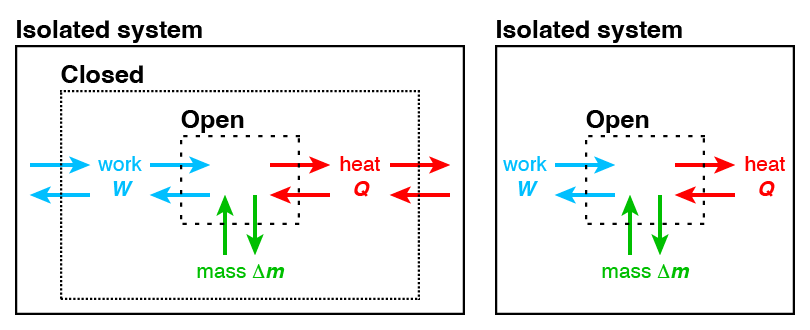
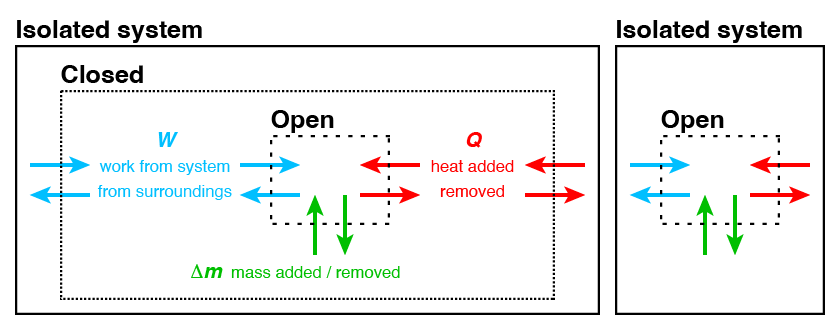
more updates

diff --git a/text/entropy03_2nd_law.md b/text/entropy03_2nd_law.md
@@ -1,0 +1,226 @@
+---
+title: The Second Law of Thermodynamics
+numbering:
+  enumerator: 1.3.%s
+---
+
+
+## Heating an Object
+
+Heating as gas means increasing the random motion of its molecules. This heating process involves two key components:
+- Increasing the average velocity of the gas molecules, i.e. increasing their kinetic energy $\langle E_k \rangle$.
+- Increasing the randomness or disorder of the gas molecules.
+
+These two processes do not always occur together. For example, consider the boiling process where liquid water is converted to water vapor. The key difference between the liquid and gas phase of $\rm{H}_2\rm{O}$ is that water vapor is in some sense more "random" than liquid water. At the precise point of boiling, the water temperature does not change, but instead only the randomness or disorder changes. 
+
+What do we mean by increasing disorder? Consider the simple example shown in [](#molecules_4_2_1), where indistinguishable atoms are placed on a 4x4 lattice grid, and each lattice site is identical. We consider 3 cases:
+1. The atoms are clustered together into 1 group of 4.
+2. The atoms form 2 clusters, each containing 2 atoms. For simplicity we will assume the clusters cannot be rotated.
+3. The atoms are dispersed into 4 separate groups of 1.
+
+
+```{figure} ../images/entropy/molecules_4_2_1.png
+:label: molecules_4_2_1
+:align: center
+:width: 600px
+Molecules on a grid, in clusters of 1, 2, and 4 atoms, with clusters allowed to occupy the same grid points. The different arrangements have different amounts of disorder (entropy).
+```
+
+The disorder of any system is related to the number of unique ways to arrange its contents. A larger number of ways to arrange the components of the system means the disorder is increased. For our system of 4 atoms, we can count the number of unique arrangements for the 3 cases we considered:
+{style=lower-alpha}
+1. 4 atom clusters - 9 ways.
+2. 2 atom clusters - $(12)(12) = 144$ ways.
+3. 1 atom clusters - $(16)(16)(16)(16) = 16^4 = 65536$ ways.
+
+For simplicity, we have overcounted the number of unique arrangements by allowing the atoms to occupy the same lattice sites. We are also ignoring the cases in (2) where the atoms are arranged into clusters of 4 atoms, and the cases in (3) where the atoms are arranged into clusters of 2 or 4 atoms.
+
+Next, we suppose that the average kinetic energy $\langle E_k \rangle$ for all molecules in these 3 cases are equal. which of these transformations will require more energy?
+- $(1) \rightarrow (2)$
+- $(1) \rightarrow (3)$
+
+Recall that heating is the transfer of energy into a system that increases its temperature, disorder (randomness), or both, depending on the process. In this case, the kinetic energy $\langle E_k \rangle$ for all 3 cases are the same, and therefore the degree of heating depends on the change in disorder. Because the transformation $(1) \rightarrow (3)$ produces a much greater increase in disorder than $(1) \rightarrow (2)$, the conversion $(1) \rightarrow (3)$ requires more heating.
+
+From the previous concepts, we can now define heating as the produce of the average kinetic energy $\langle E_k \rangle$ and the change in disorder:
+```{math}
+:label: eq:heating_temp_entropy_init
+\rm{heating} = \langle E_k \rangle \, (\rm{change \,\, in \,\, disorder})
+```
+
+If we consider thermodynamic states, heat input moving from one state to another is $\Delta Q$, average kinetic energy $\langle E_k \rangle$ is equivalent to temperature $T$, and the change in disorder is represented by the change in entropy $\Delta S$. We will give a more quantitative definition for the change in entropy $\Delta S$ (change in disorder) later. Substituting these variables in Equation [](#eq:heating_temp_entropy_init) gives us:
+
+
+If we consider thermodynamic states, heat input moving from one state to another is $\Delta Q$, average kinetic energy $\langle E_k \rangle$ is equivalent to temperature $T$, and the change in disorder is represented by the change in entropy $\Delta S$. We will give a more quantitative definition for the change in entropy $\Delta S$ (change in disorder) later. Substituting these variables into Equation gives us:
+
+:::{admonition} Thermodynamic Relationship Between Heat and Entropy 
+:class: danger 
+The heat transferred to or from a system during a reversible process is proportional to its absolute temperature and the corresponding change in entropy:
+```{math}
+:label: heating_temp_entropy
+\Delta Q = T \Delta S,
+```
+where $\Delta Q$ is the heat input into the system, $T$ is the absolute temperature (assumed constant during the process), and $\Delta S$ is the change in entropy of the system. 
+:::
+
+
+
+
+## Reversible and Irreversible Processes
+
+We will use an example to show that Equation [](#heating_temp_entropy) is only correct under very specific conditions. Consider a box partitioned into two volumes, one of which contains CO$_2$ gas and the other vacuum. We assume the walls are imperable to matter and the system is closed and isothermal. We could alternatively describe this system as part of a larger isolated system with uniform temperature, or consider the system to be isolated instead of closed.
+
+
+```{figure} ../images/entropy/CO2_sep.png
+:label: CO2_sep
+:align: center
+:width: 700px
+A partitioned box containing initially separated CO$_2$ and vacuum, where the wall is removed.
+```
+
+What will happen if we remove the partition? The CO$_2$ fas will expand to fill the entire box. This process is known as the **free expansion of gas**, and it increases the disorder of the system because the number of accessible positions of gas molecules has increased. We can formalize this increase in disorder as a change in entropy:
+```{math}
+\Delta S = S_\text{final} - S_\text{initial} > 0.
+```
+
+Unlike the case of isothermal gas expansion examined in the [Work Section](#sec:work), no work is done during this process as long as we assume the effort required to remove the partition is negligible. You can imagine popping a balloon, which causes the rubber wall separating the gas inside to mix with the surrounding gases with negligible work required to remove the partition. Thus, $W=0$.
+
+
+Additionally, because the box is closed and isothermal, the internal energy of this system must remain constant, giving 
+```{math}
+\Delta U = 0,
+```
+where $\Delta U$ is the difference between the final and initial states. Applying these two constaints in the First Law of Thermodynamics (Equation [](#first_law_thermodynamics)) yields
+```{math}
+Q = \Delta U - W = 0.
+```
+
+This result conflicts with Equation [](#heating_temp_entropy) and our earlier statement that the entropy of the system will increase when the wall is removed. The resolution lies in the fact that Equation [](#heating_temp_entropy) applies only to **reversible processeses**,  which are defined as a process where the system can be reverted to the original state without doing additional work. By contrast, an **irreversible process** cannot return to its original state without external work. The free expansion of gas is an irreversible process because no work is required for the gas to expand, yet work is necessary to compress it back to its initial state.
+
+The key characteristics of an irreversible processes:
+- They occur in one direction only.
+- They happen spontaneously without external work.
+
+By contrast, a reversible process occurs so slowly that the system is essentially in equilibrium at all times. These are also called **quasistatic processes**. Note that while all reversible processes are quasistatic, not all quasistatic processes are reversible. For example, consider adding a valve to the partition in [](#CO2_sep) that allows one molecule to flow through at a time. This expansion happens quasistatically (near equilibrium), but it is still  irreversible because work would still be needed to return the gas to its original state.
+
+To make Equation [](#heating_temp_entropy) correct for irreversible processes, we must consider that the entropy increase will exceed the heat added to the system. We can therefore modify this equation to be:
+```{math}
+Q \leq T \Delta S,
+```
+where the equality holds for reversible processes:
+
+```{math}
+Q_\text{rev} = T \Delta S.
+```
+Here, the subscript "rev" indicates a reversible process. This distinction ensures consistency with the Second Law of Thermodynamics, which governs the direction of energy transfer and the irreversibility of natural processes.
+
+
+## Defining the Second Law 
+
+
+:::{admonition} The Second Law of Thermodynamics 
+:class: danger 
+The total entropy of an isolated system can never decrease over time. In any real process, entropy either increases or, in the ideal case of a reversible process, remains constant. 
+:::
+
+This law governs the direction of thermodynamic processes, indicating that energy spontaneously disperses and systems evolve toward states of higher disorder or maximum entropy. There are several equivalent ways to state the Second Law:
+- An isolated system always tends toward a configuration that maximizes disorder (entropy).
+- The disorder of an isolated system increases due to spontaneous and irreversible processes.
+- Heat transfer: the relationship $Q/T \leq \Delta S$ holds, where $Q_{\text{rev}} / T = \Delta S$ is the reversible limit.
+
+While the First Law of Thermodynamics specifies the conservation of energy, the Second Law specifies the direction of thermodynamic processes. For example, the First Law states that the internal energy of a system is conserved but does not dictate the sequence of events. In contrast, the Second Law explains why gas expands into a vacuum when a barrier is removed, as this process increases the system’s entropy.
+
+<!-- Connecting Reversibility and the Second Law -->
+
+For a closed isothermal or isolated system, the First Law tells us that the internal energy is fixed:
+```{math}
+\Delta U = Q - W = 0 \quad \Rightarrow \quad Q = W.
+```
+The Second Law adds that the entropy of the system must either stay constant or increase:
+```{math}
+Q \leq T \Delta S,
+```
+with equality holding for reversible processes. Combining these principles gives the inequality for work in an isolated system:
+```{math}
+W \leq T \Delta S.
+```
+
+This inequality means that to decrease the entropy of a system (e.g., separating a gas mixture into its components), work must be done on the system ($W < 0$). For reversible processes, the minimum work required to achieve this is:
+```{math}
+W_{\text{min}} = T \Delta S = Q_{\text{rev}}.
+```
+However, any irreversibility increases the magnitude of the work required. For example, separating a gas mixture containing carbon dioxide, oxygen, and nitrogen into pure components requires work to reduce the entropy, and the work needed is greater for irreversible processes.
+
+When discussing the minimum work required, it’s important to clarify what “minimum” means. The term $W_{\text{min}}$ refers to the minimum **magnitude** of work done on the system, not the minimum numerical value. From the system’s perspective, work is negative because it is being done on the system. From the surroundings’ perspective, work is positive, as the surroundings perform the work. Regardless of the sign convention, $W_{\text{min}}$ corresponds to the least amount of work needed to achieve the desired reduction in entropy under reversible conditions.
+
+The Second Law provides the essential framework for understanding the directionality and feasibility of thermodynamic processes. It introduces the concept of entropy as a measure of disorder and establishes that increasing entropy is the natural tendency of isolated systems. Additionally, it sets fundamental limits on the work required to manipulate a system’s entropy, distinguishing between reversible and irreversible processes.
+
+
+## Entropy
+
+To evaluate the minimum work required to separate and capture carbon dioxide, we need to understand **entropy**, which quantifies the disorder of a system. Boltzmann’s definition of entropy provides a framework for this analysis by relating it to the number of ways molecules can be arranged within a system.
+
+Consider a lattice gas, as illustrated in [](#lattice_gas), where $J$ represents the total number of lattice sites, and $N$ is the number of gas molecules. Each lattice position can be occupied by at most one molecule. The number $\Omega$ of possible ways to arrange $N$ molecules in $J$ sites is given by:
+```{math}
+\Omega = \frac{J!}{(J-N)!},
+```
+where $!$ is the @wiki:Factorial numerical operator. The factorial accounts for the sequential placement of molecules. However, if the molecules are indistinguishable, this calculation overestimates the arrangements by a factor of $N!$, the number of permutations of $N$ identical objects. Correcting for this over-counting, the total number of distinct configurations becomes:
+```{math}
+\Omega = \frac{J!}{(J-N)!N!}.
+```
+Here, $\Omega$ represents the number of microstates, or distinct configurations, of indistinguishable gas molecules in the lattice.
+
+```{figure} ../images/entropy/lattice_gas.png
+:label: lattice_gas
+:align: center
+:width: 600px
+A gas consisting of $N$ molecules arranged on $J$ lattice sites.
+```
+
+
+
+### Entropy and Boltzmann's Postulate
+
+Boltzmann postulated that the entropy $S$ of a system is directly related to the number of possible configurations $\Omega$:
+
+```{math}
+S = k_B \ln \Omega,
+```
+
+where $k_B$ is the Boltzmann constant ($1.38 \times 10^{-23} \ \mathrm{J K^{-1}}$). Substituting the expression for $\Omega$, we have:
+
+```{math}
+S = k_B \ln \left( \frac{J!}{(J-N)!N!} \right).
+```
+
+### Simplification Using the Stirling Approximation
+
+For large values of $M$, the Stirling approximation provides:
+
+```{math}
+\ln M! \approx M \ln M - M.
+```
+
+Applying this approximation to simplify the entropy expression:
+
+```{math}
+S = k_B \big[ J \ln J - J - (J-N) \ln (J-N) + (J-N) - N \ln N + N \big].
+```
+
+Simplifying further:
+
+```{math}
+S = k_B \big[ J \ln J - (J-N) \ln (J-N) - N \ln N \big].
+```
+
+### Low-Density Gas Approximation
+
+When $J \gg N$ (i.e., the number of lattice sites far exceeds the number of molecules), the first term approaches zero, as $\ln(1) = 0$. This assumption is valid for most gases under low-density conditions, except at very high pressures. In this limit, the entropy simplifies to:
+
+```{math}
+S = -N k_B \ln \left( \frac{N}{J} \right).
+```
+
+This expression describes the entropy of a low-density gas in a lattice and captures the relationship between the number of molecules, the available space, and the degree of disorder in the system.
+
+
+
+

diff --git a/text/entropy02_1st_law.md b/text/entropy02_1st_law.md
@@ -10,6 +10,7 @@ Energy can be transferred into and out of a thermodynamic system in two ways:
 2. Heat
 
 
+(sec:work)=
 ## Work
 
 Work is one of the fundamental ways energy can be transferred between a thermodynamic system and its surroundings. In this section, we define and explore the concept of work in thermodynamics, derive key equations, and illustrate examples to build intuition.
@@ -255,21 +256,22 @@ We can classify thermodynamic systems into 3 categories based on their interface
 ```{figure} ../images/entropy/systems.png
 :label: fig:systems
 :align: center
-:width: 600px
+:width: 720px
 (left) An isolated thermodynamic system which contains a closed system, which itself contains an open system. (right) An isolated system which contains an open system.
 ```
 
 Consider the closed system contained inside the isolated system in [](#fig:systems). The first law of thermodynamics states 
 ```{math}
 U_{\rm{closed}} = 
-Q_{\rm{input}} - Q_{\rm{output}}
+  Q_{\rm{input}} - Q_{\rm{output}}
 - (
-  W_{\rm{done on system}}
+  W_{\rm{system}} - W_{\rm{surroundings}},
 )
 ```
+where $Q_{\rm{input}}$ and $Q_{\rm{output}}$ refer to heat transferred across the boundary, and $W_{\rm{system}}$ and $W_{\rm{surroundings}}$ refers to work done by the system on the surroundings and vice versa. The total amount of energy in the closed system changes by exactly the amount of heat added/removed
+to the system and the work done by/to the system, i.e. total energy is conserved. On the other hand, an isolated system by definition has $Q_{\rm{isolated}} = W_{\rm{isolated}} = 0$, and therefore also $U_{\rm{isolated}}$ = 0.
 
-
-We can also thermodynamic systems or processes into 4 categories based on the constraints imposed on state variables:
+We can also categorize thermodynamic systems or processes into 4 categories based on the constraints imposed on state variables:
 1. **Isothermal** - The system undergoes a process at constant temperature $T$. Heat transfer occurs to maintain thermal equilibrium as work is done or energy changes.
 2. **Isobaric** - The system experiences a process at constant pressure $P$. Heat transfer can lead to changes in volume and temperature.
 3. **Isochoric** - The system's volume $V$ remains constant . No work is done, and any energy transfer appears as heat.
